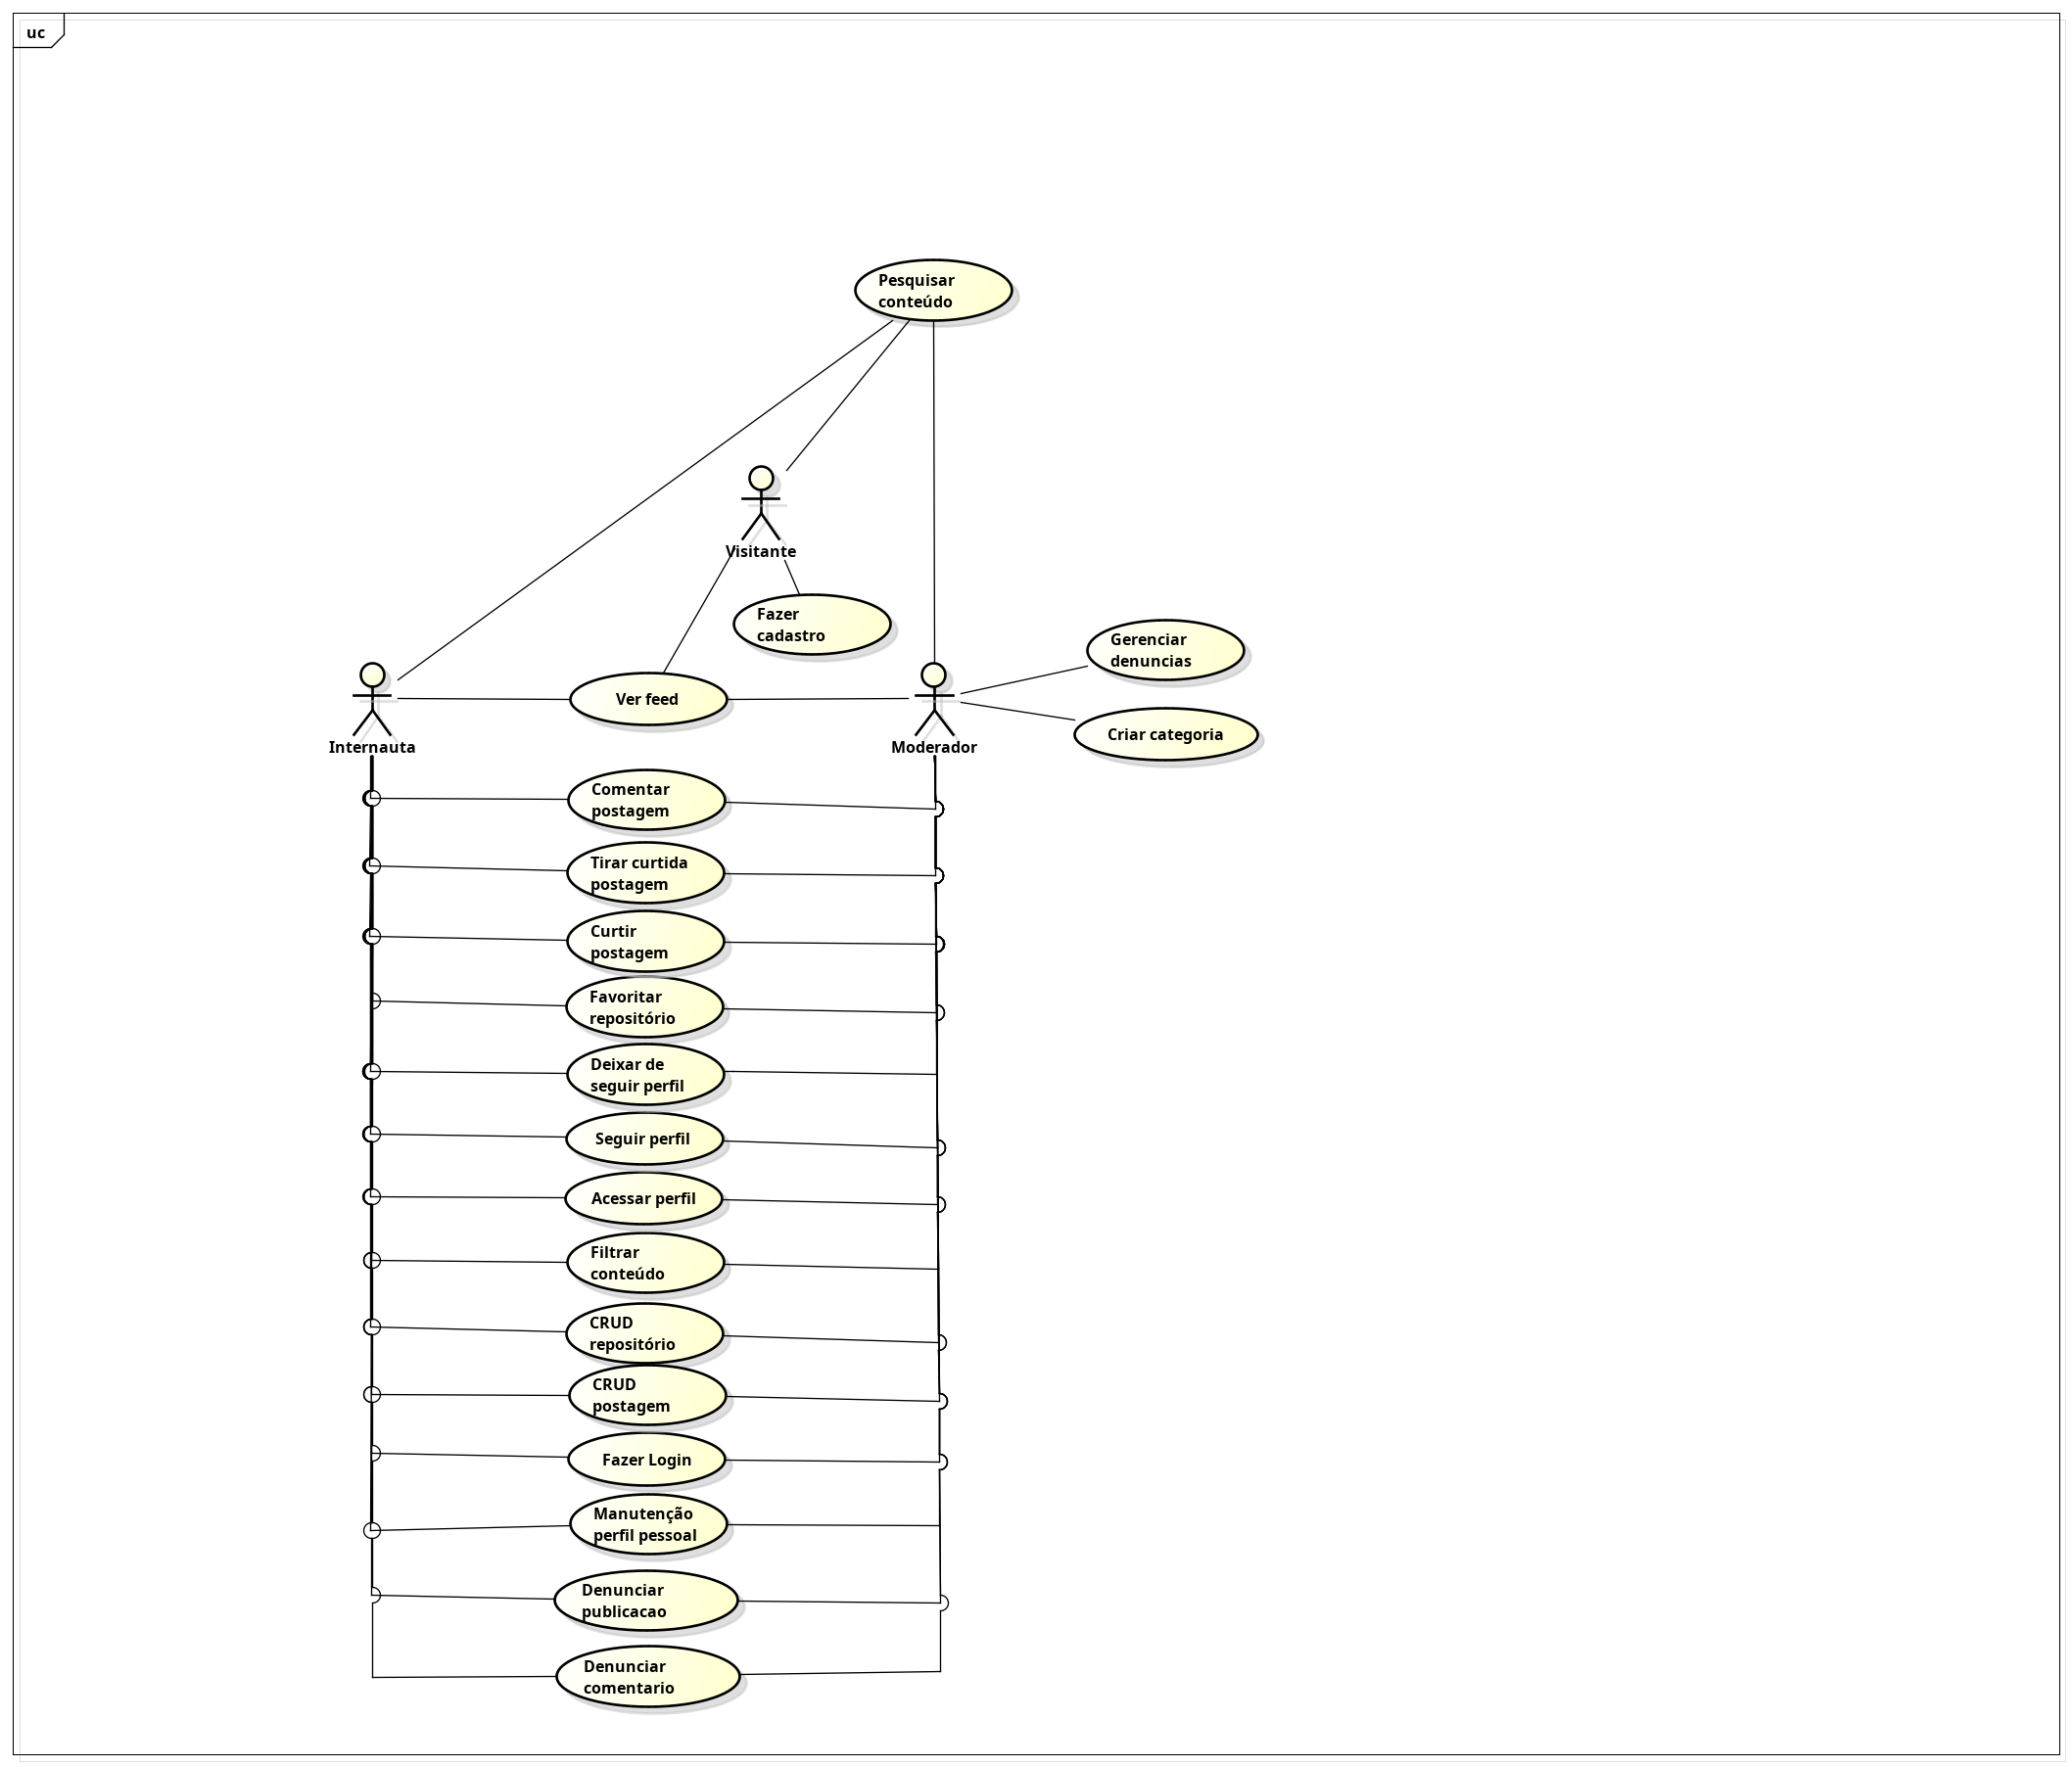
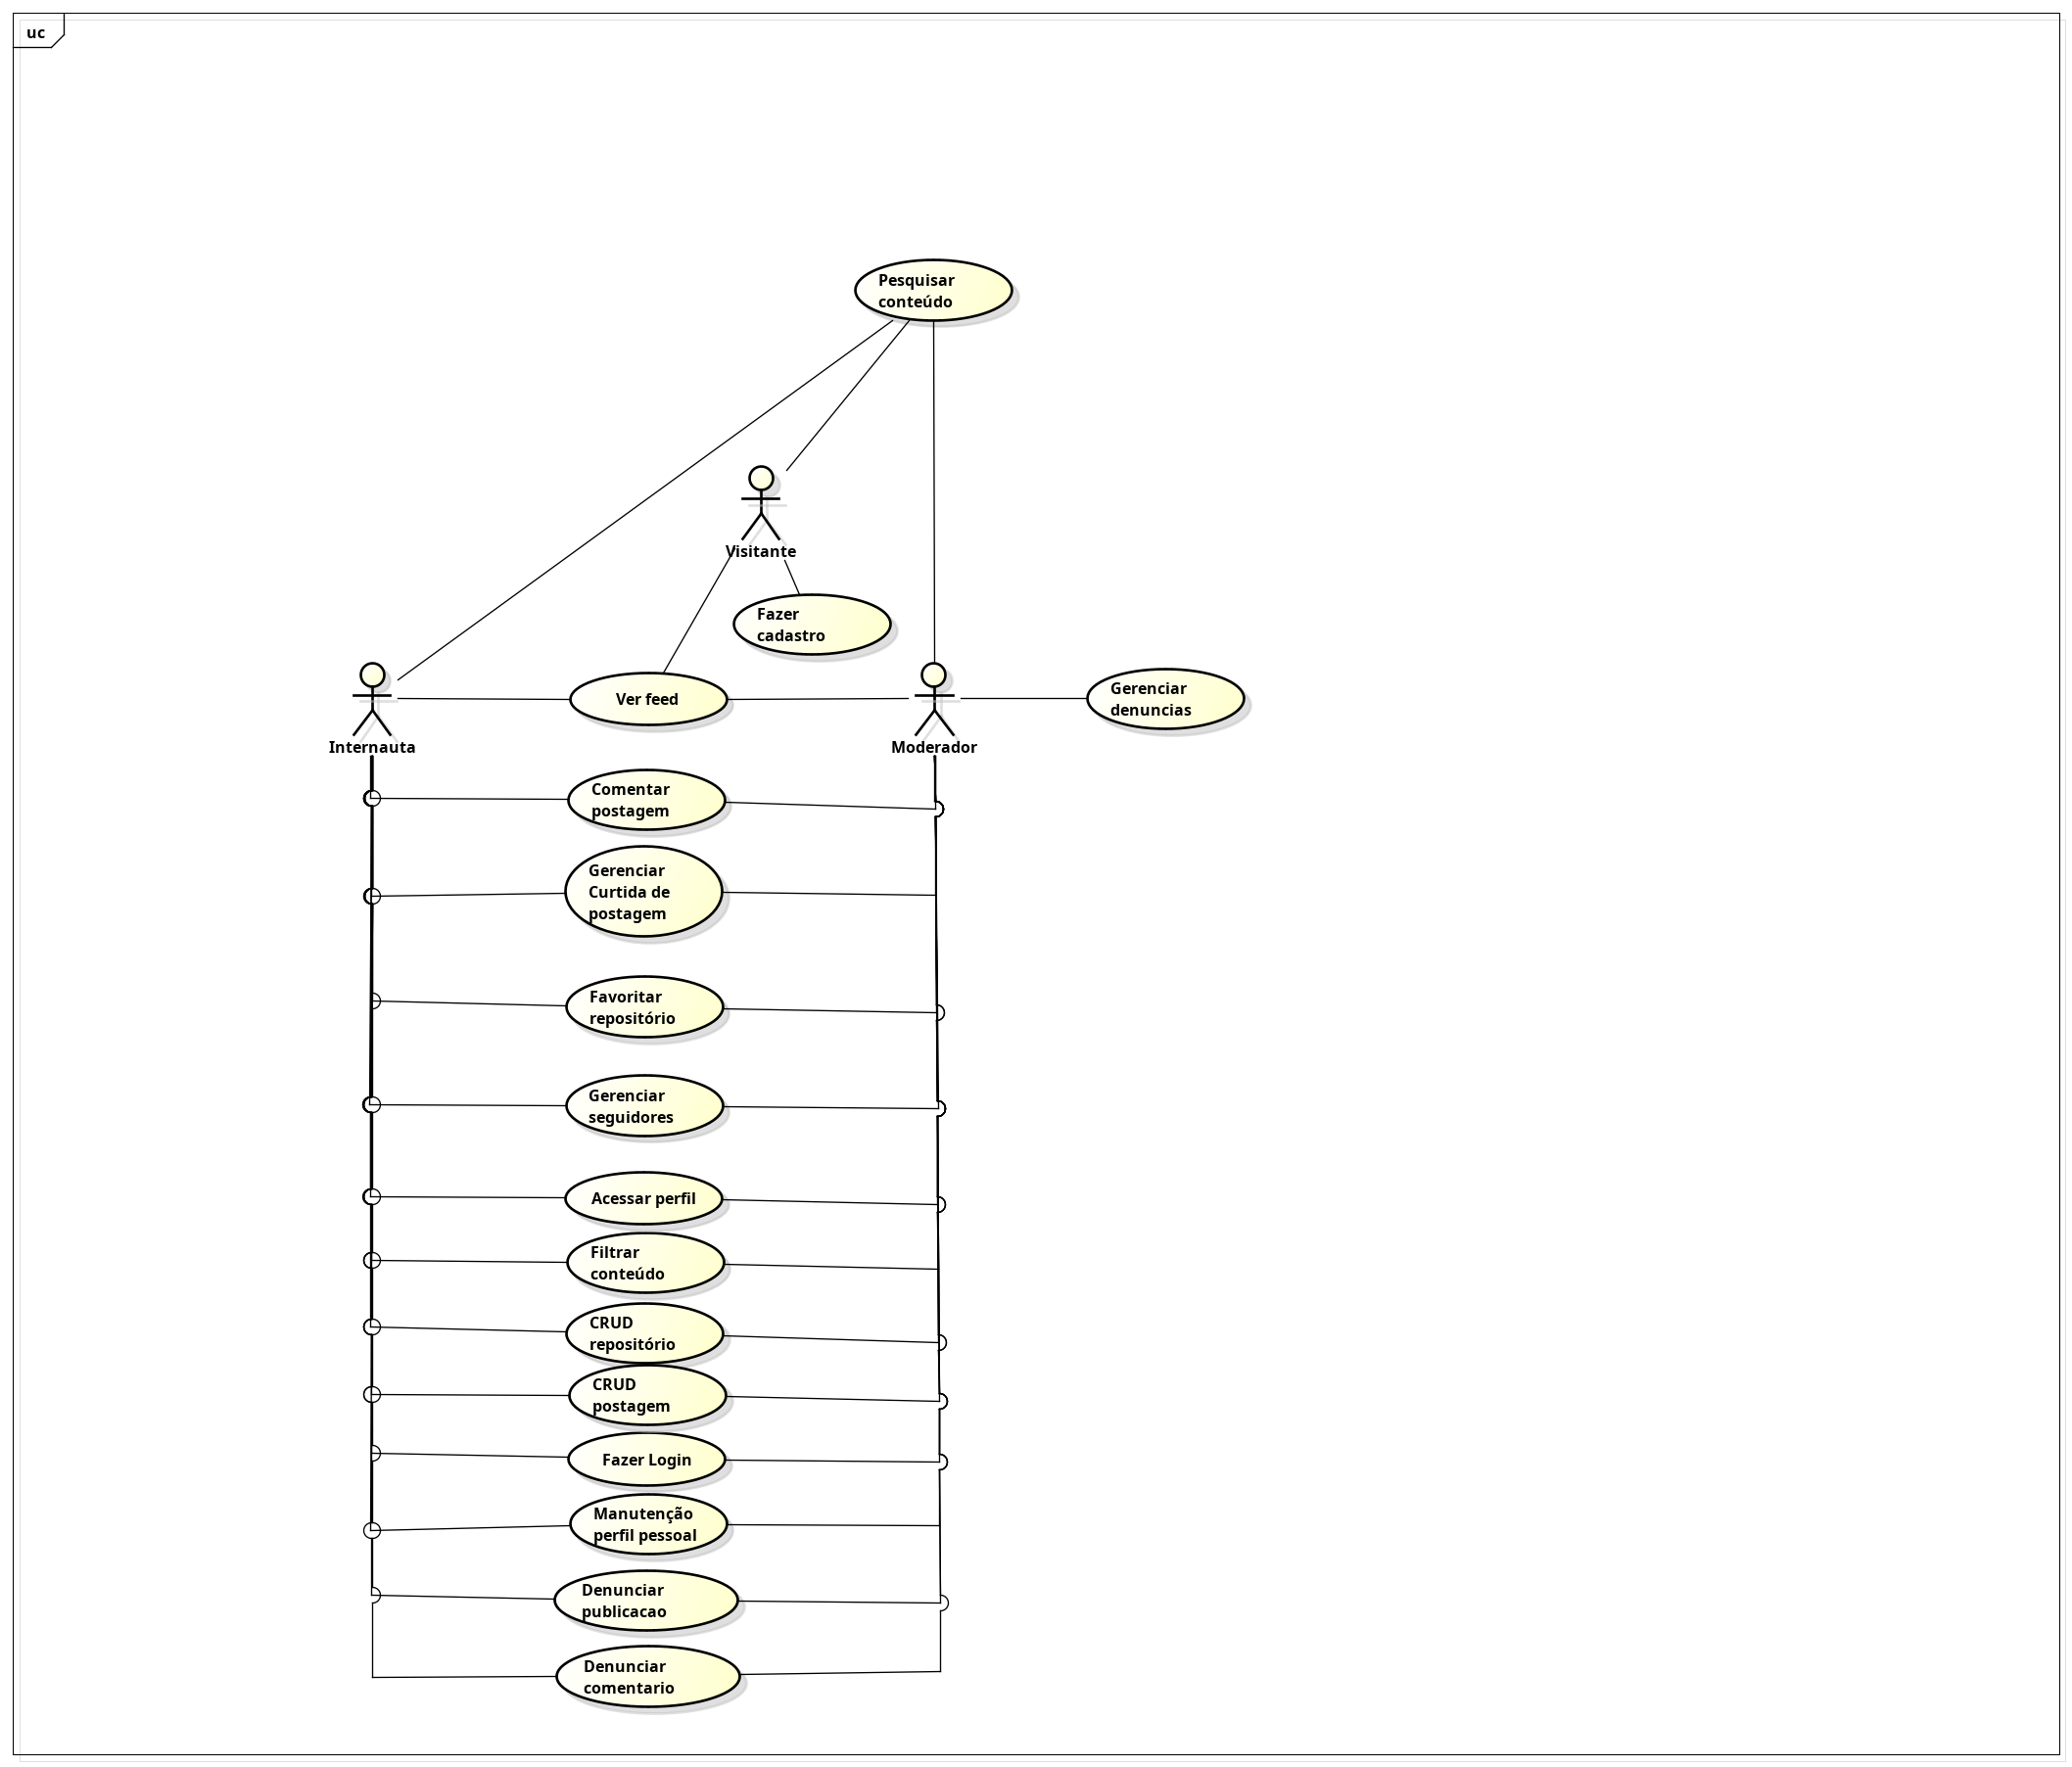
docs: Atualiza diagrama de caso de uso

diff --git a/doc/cdu/casos-de-uso-completos.md b/doc/cdu/casos-de-uso-completos.md
@@ -1,6 +1,6 @@
 # Especificações de Casos de Uso
 
-![UseCase Diagram0](Diagrama%20de%20caso%20de%20uso%20do%20bizzu.png)
+![Diagrma de caso de uso](Diagrama%20de%20caso%20de%20uso%20do%20bizzu.png)
 
 ## 001 - CRUD repositório
 **Pré-condições:** O usuário deve ter uma conta e um perfil autenticado.  